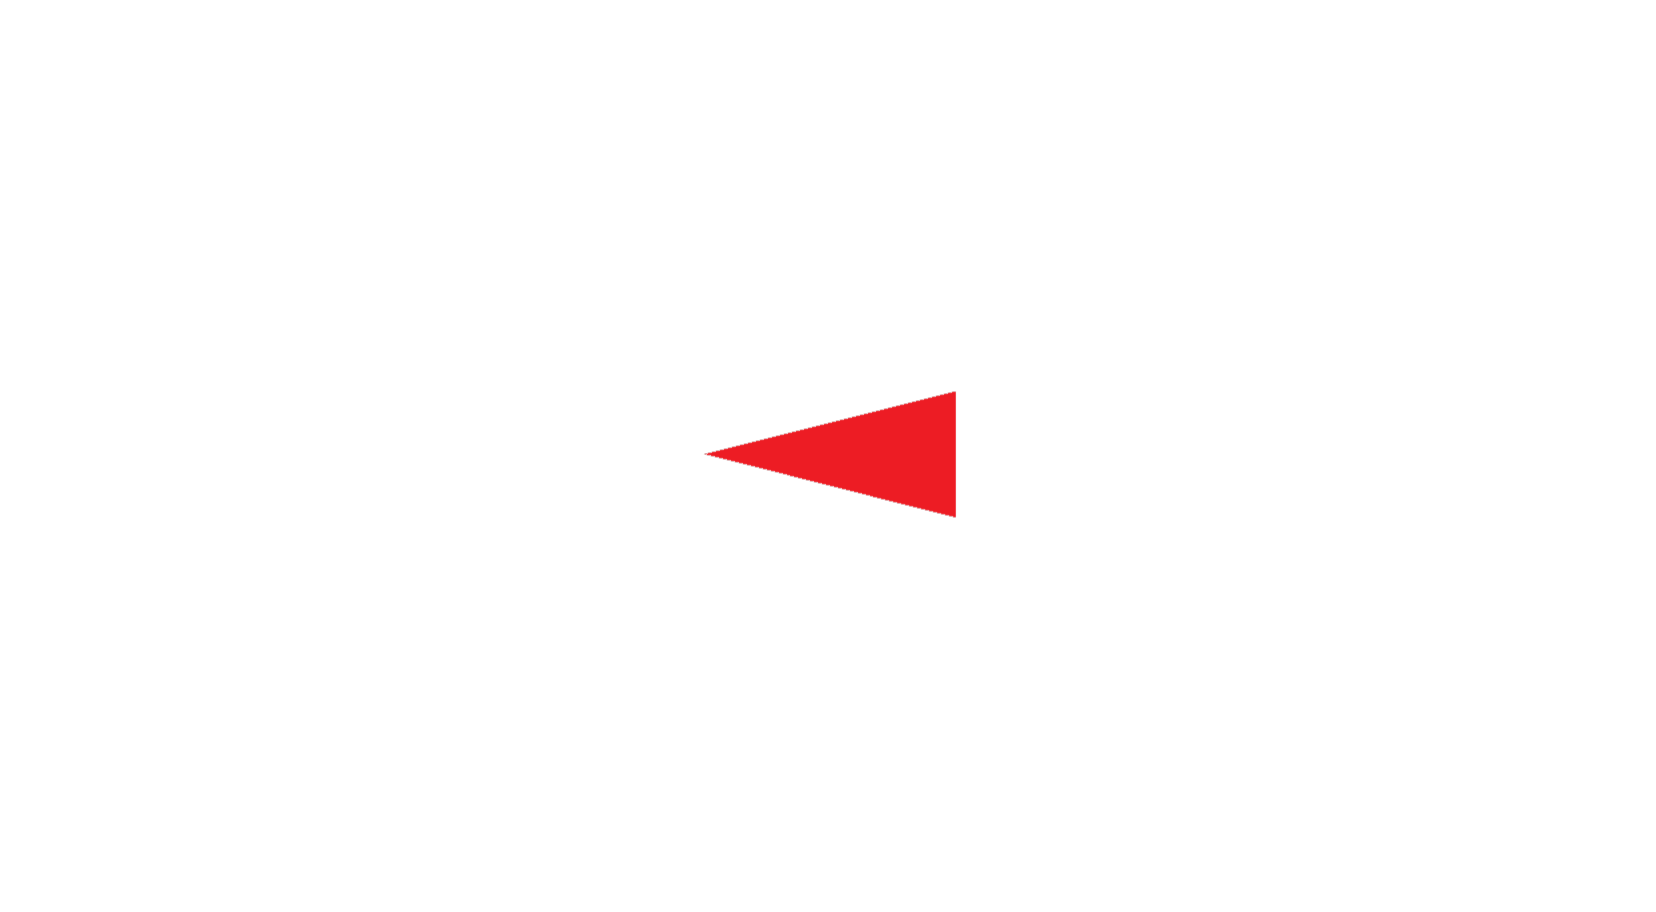
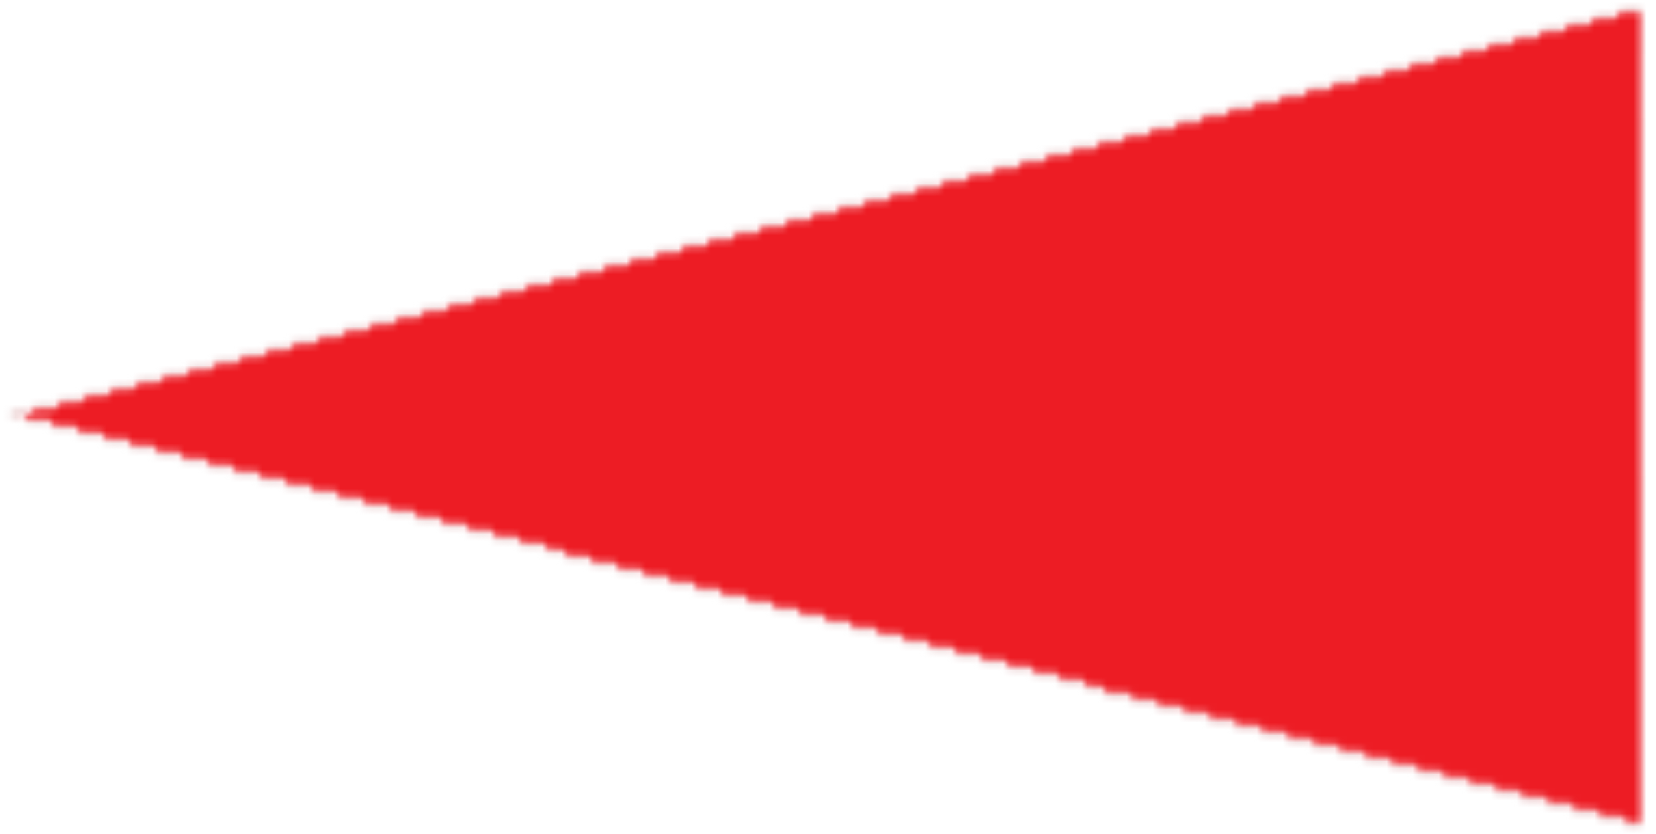
resized player and changed game window dimensions

diff --git a/game.html b/game.html
@@ -10,8 +10,8 @@
 
             const config = {
                 type: Phaser.AUTO,
-                width: 800,
-                height: 600,
+                width: window.innerWidth,
+                height: window.innerHeight,
                 scale: {
                     mode: Phaser.Scale.ENVELOP,
                     autoCenter: Phaser.Scale.CENTER_BOTH
